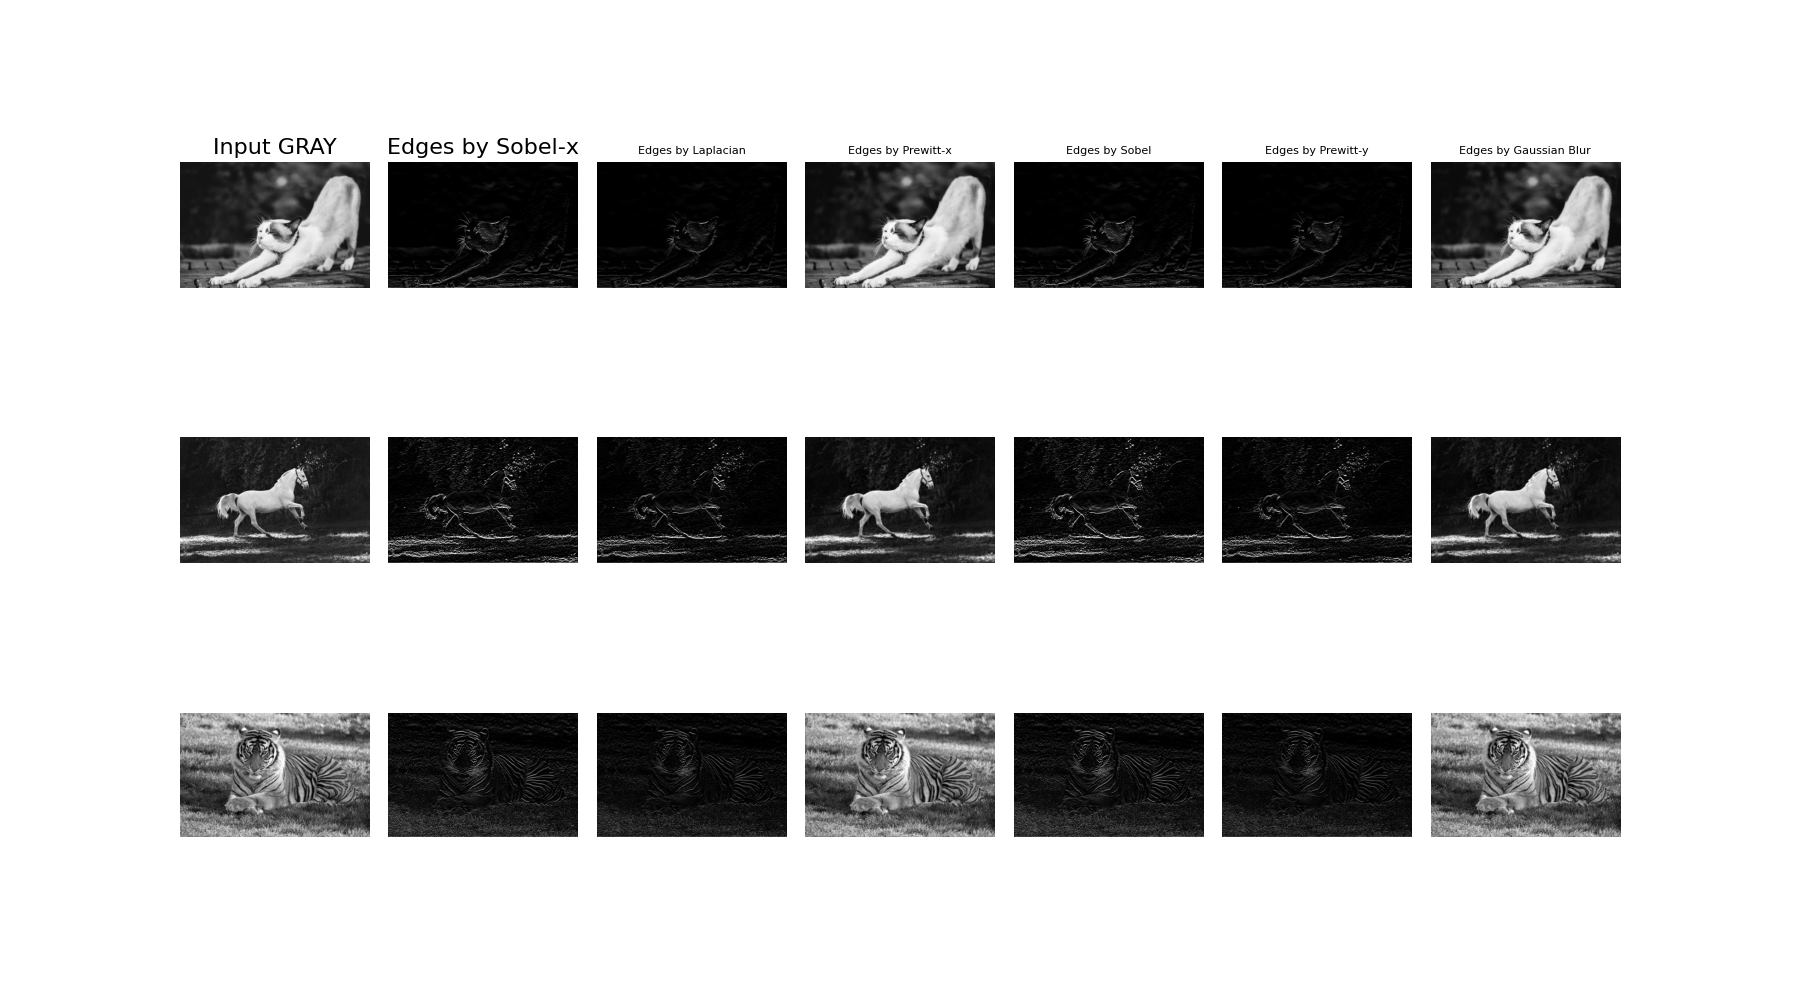
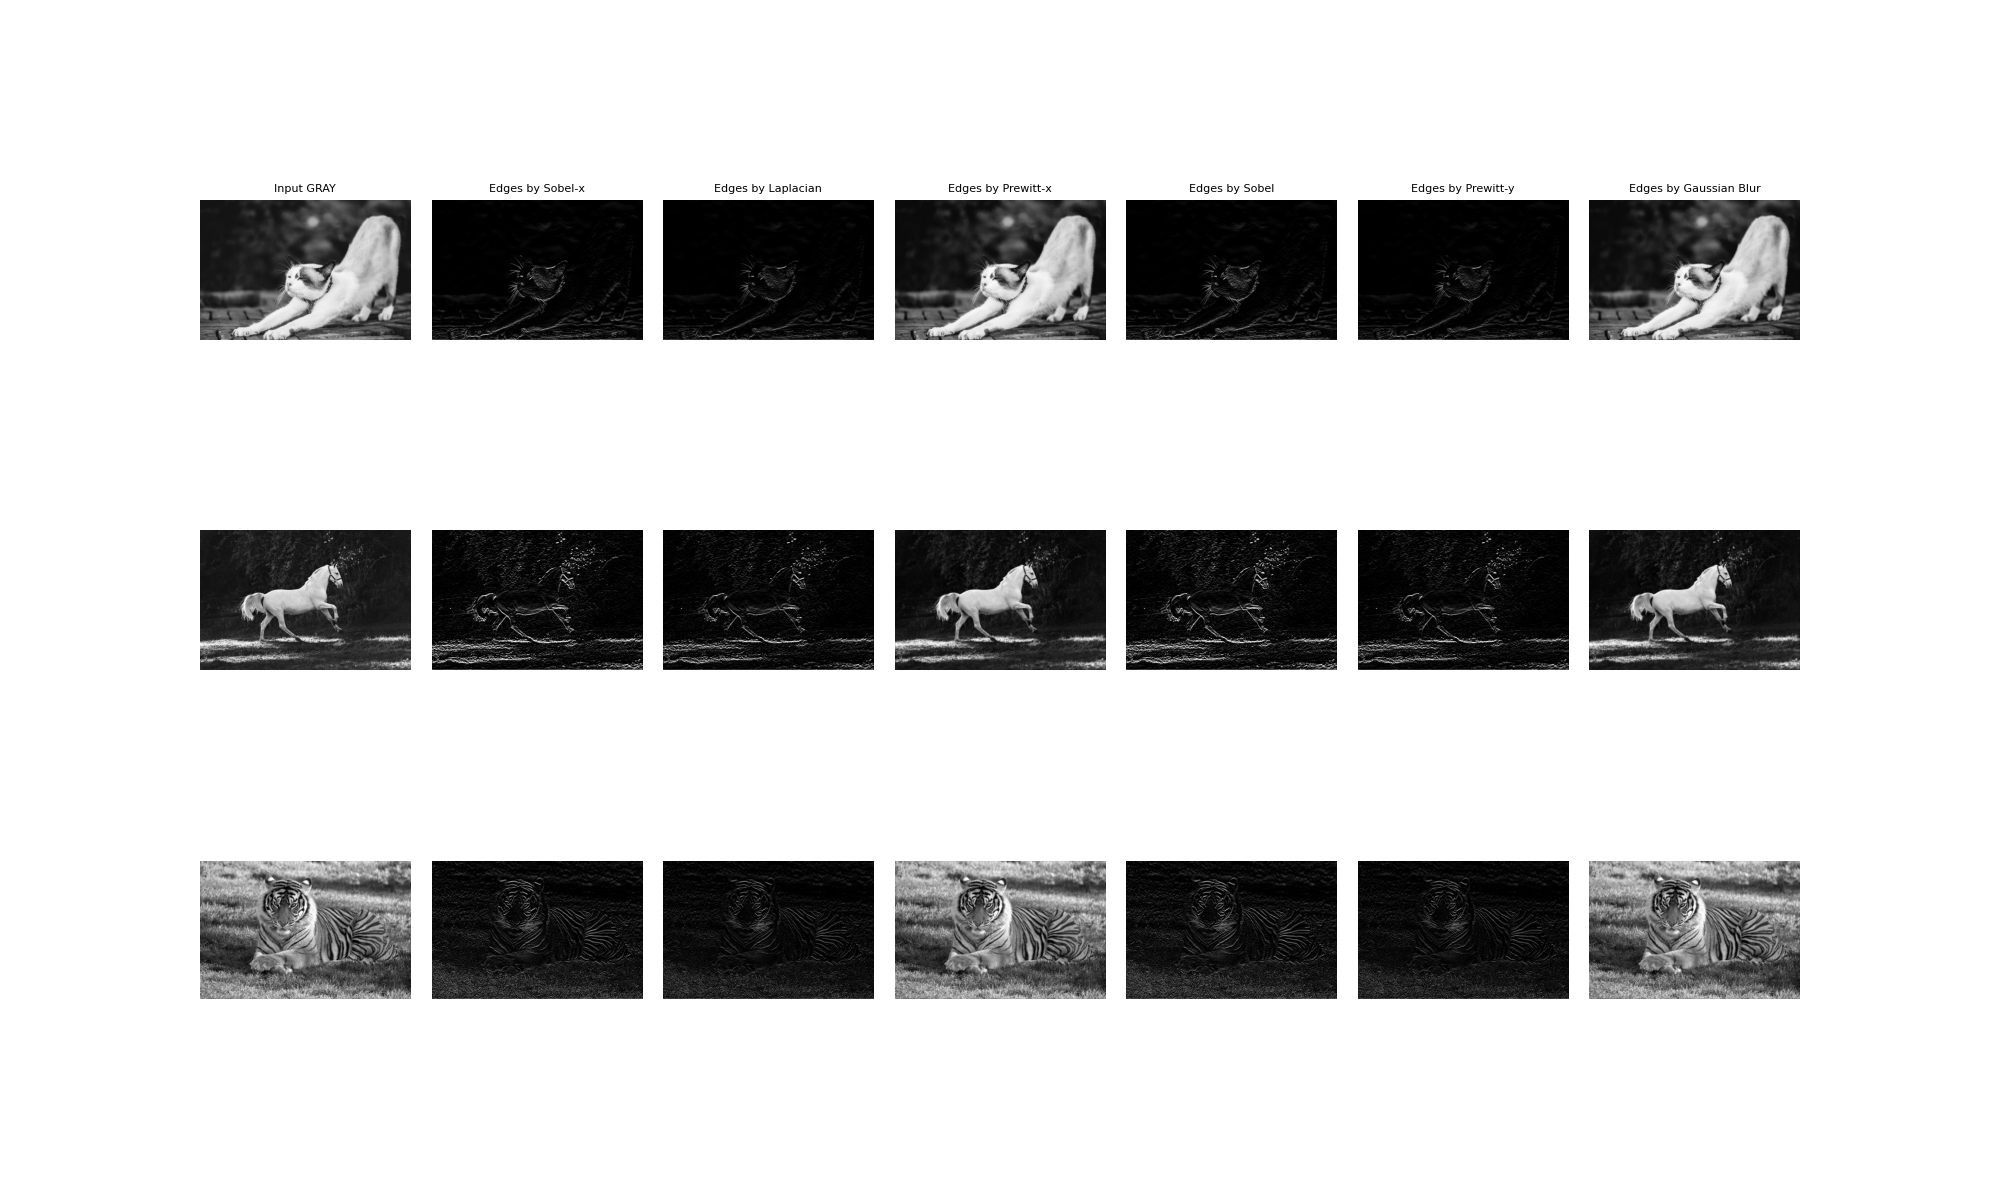
output gray input

Changed region(s): [[0.0933, 0.434, 0.9022, 0.589], [0.0933, 0.124, 0.9022, 0.31], [0.0933, 0.713, 0.9022, 0.837]]

diff --git a/Part 1/convolution.py b/Part 1/convolution.py
@@ -454,7 +454,7 @@ Plotting resulted images with detected edges
 """
 
 # Setting default size of the plot
-plt.rcParams['figure.figsize'] = (18.0, 10.0)
+plt.rcParams['figure.figsize'] = (20.0, 12.0)
 
 
 # Defining a figure object with number of needed subplots
@@ -502,8 +502,8 @@ ax[2, 6].imshow(output_image3_GRAY[2], cmap=plt.get_cmap('gray'))
 
 
 # Giving names to columns
-ax[0, 0].set_title('Input GRAY', fontsize=16)
-ax[0, 1].set_title('Edges by Sobel-x', fontsize=16)
+ax[0, 0].set_title('Input GRAY', fontsize=8)
+ax[0, 1].set_title('Edges by Sobel-x', fontsize=8)
 ax[0, 2].set_title('Edges by Laplacian', fontsize=8)
 ax[0, 3].set_title('Edges by Prewitt-x', fontsize=8)
 ax[0, 4].set_title('Edges by Sobel', fontsize=8)
